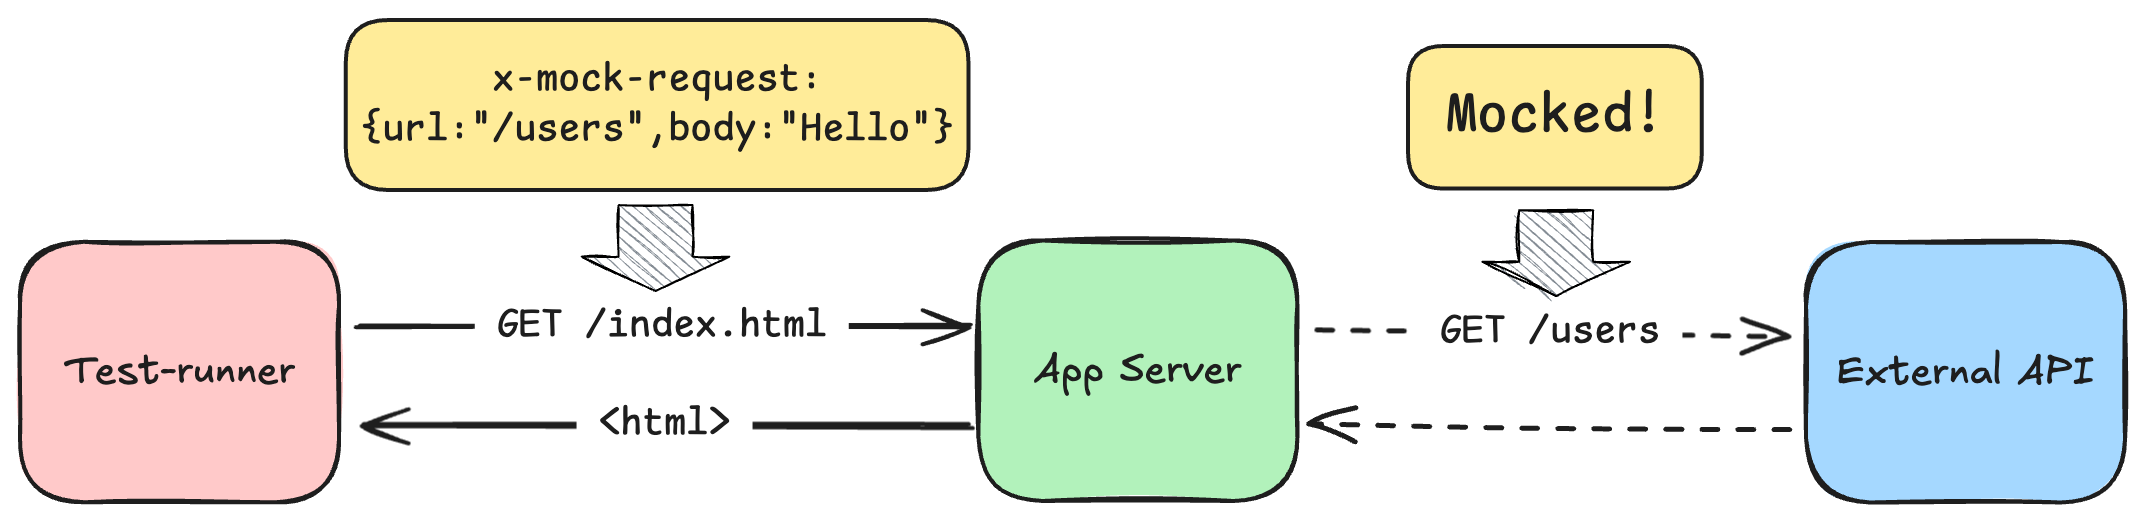
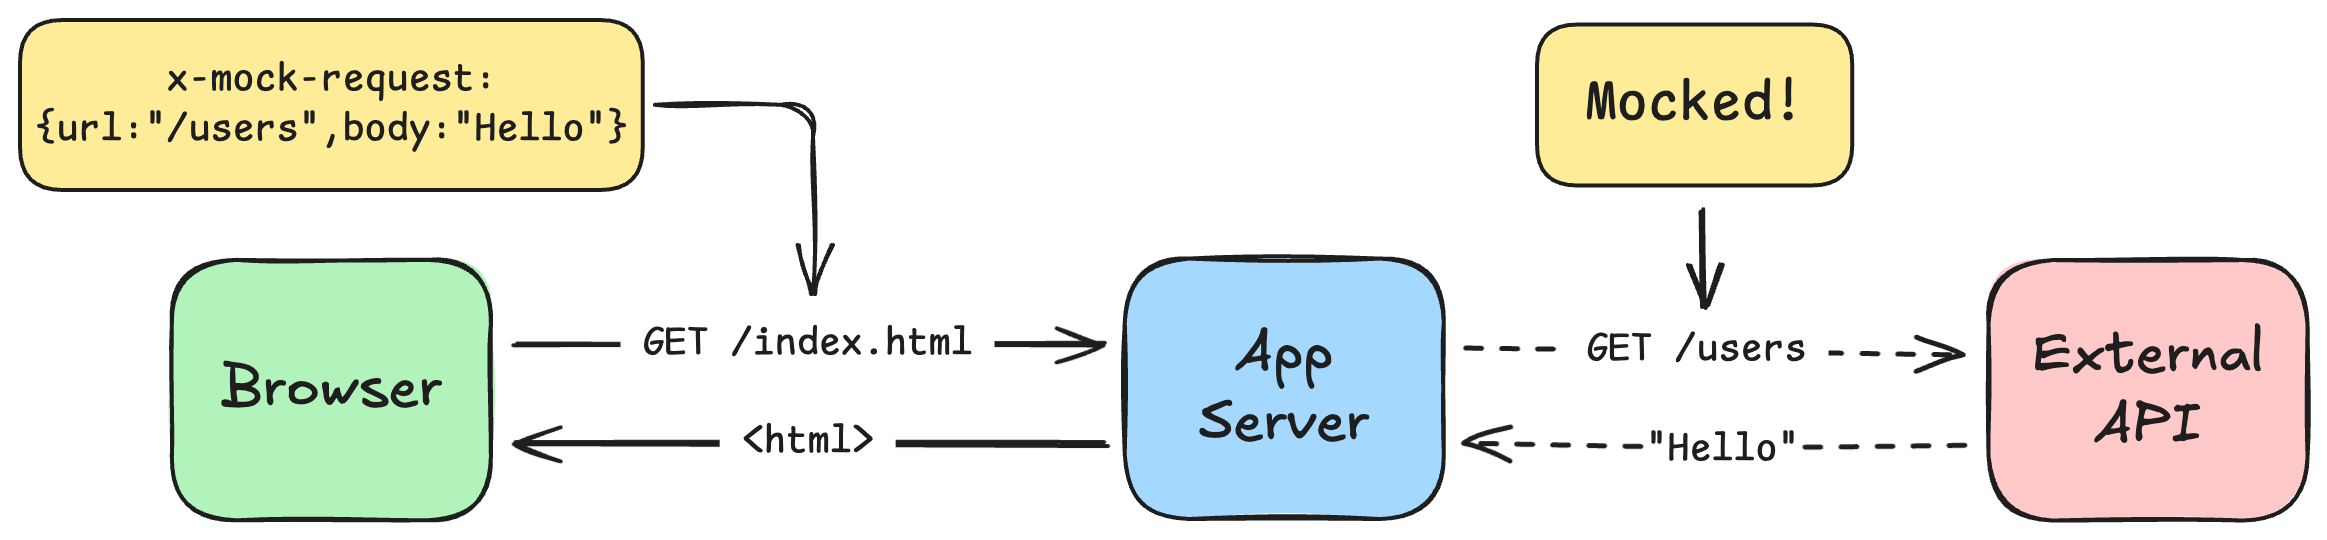
readme

diff --git a/README.md b/README.md
@@ -11,10 +11,10 @@
 
 ![How RMP works](https://raw.githubusercontent.com/vitalets/request-mocking-protocol/refs/heads/main/scripts/img/rmp-schema.png)
 
-1. The test runner defines a request mock as a JSON object.
-2. The mock is sent with the page navigation via a custom HTTP header.
+1. The test runner defines a request mock as a JSON object: `{url: "/users", body: "Hello"}`
+2. The browser sends this mock along with the page navigation as a custom HTTP header `x-mock-request`.
 3. The server reads the header and applies the mock to outgoing API requests.
-4. The page loads with data from the mocked response.
+4. The page renders using data from the mocked response.
 
 Check out the [Concepts](#concepts) and [Limitations](#limitations) for more details.
 
@@ -60,10 +60,10 @@ Check out the [Concepts](#concepts) and [Limitations](#limitations) for more det
 * [**Test runner support**](#test-runner-integration) – Works with **Playwright**, **Cypress**, and custom runners.
 * [**Framework-agnostic**](#framework-integration) – Built-in support for **Next.js** and **Astro**, or integrate with any framework.
 * [**Request matching**](#request-matching) – Match requests by URL, wildcard, query, headers, or body.
+* [**Response mocking**](#response-mocking) – Mock the response with JSON/ string body or HTTP error.
+* [**Parameter Substitution**](#parameter-substitution) – Dynamically inject route/query values into responses.
 * [**Response patching**](#response-patching) – Fetch real API responses and override only what’s needed.
-* [**Dynamic parameters**](#parameter-substitution) – Use `{{ }}` placeholders to inject route/query values into responses.
-* [**Caching**](#caching) – Cache requests on server to make subsequent tests run faster.
-* [**Mocks API**](#api) – Set up mocks easily using a `MockClient` class.
+* [**API**](#api) – Set up mocks easily using a `MockClient` class.
 * [**Debug-friendly**](#debugging) – Add `debug: true` for detailed breakdown of the mocking process.
 
 ## Installation
@@ -228,9 +228,56 @@ RMP offers flexible matching options to ensure your mocks are applied exactly wh
   }, { body: [] });
   ```
 
+## Response Mocking
+
+RMP lets you mock any part of the response. 
+
+- **Static body**: Set response body as string or JSON object.
+  ```ts
+  // string
+  await mockClient.GET('https://example.com/*', {
+    body: 'Hello world'
+  });
+
+  // JSON
+  await mockClient.GET('https://example.com/*', {
+    body: { id: 1, name: 'John Smith' },
+  });
+  ```
+
+- **Custom headers**: Set response headers.
+  ```ts
+  await mockClient.GET('https://example.com/*', {
+    headers: { 'content-type': 'application/json' },
+  });
+  ```
+
+- **Emulate errors**: Set arbitrary HTTP status code.
+  ```ts
+  await mockClient.GET('https://example.com/*', { 
+    status: 500
+  });
+  ```
+
+- **Respond with delay**: Set arbitrary delay in miliseconds.
+  ```ts
+  await mockClient.GET('https://example.com/*', { 
+    delay: 1000
+  });
+  ```
+
+You can combine all options together:
+```ts
+await mockClient.GET('https://example.com/*', {
+  headers: { 'content-type': 'application/json' },
+  body: { id: 1, name: 'John Smith' },
+  delay: 1000,
+});
+```
+
 ## Parameter Substitution
 
-You can define route parameters in the URL pattern and use them in the response:
+You can define route parameters in the URL pattern and use them in the response via `{{ }}` syntax:
 
 ```ts
 await mockClient.GET('https://jsonplaceholder.typicode.com/users/:id', {
@@ -289,39 +336,6 @@ The `bodyPatch` contains object in a form:
 }
 ```
 `path.to.property` uses dot-notation, evaluated with [lodash.set](https://lodash.com/docs/4.17.15#set).
-
-## Caching
-
-You can leverage RMP to cache **server-side** API calls.
-The key question: how to initially fetch API response to put into cache?
-
-The proposed solution is to return response as a hidden HTML element (in non-production environments). Tests can extract the response from the page source, and provide it as a mock during subsequent navigations.
-
-In the app:
-```tsx
-// app/page.tsx
-
-export default async function Page() {
-  const users = await fetchUsers();
-
-  return (
-    <>
-      {/* ...render users */}
-
-      {/* Embed raw response for testing */}
-      {process.env.VERCEL_ENV !== 'production' && (
-        <script id="users-response" type="application/json">
-          {JSON.stringify(users)}
-        </script>
-      )}
-    </>
-  );
-}
-```
-In the test:
-```ts
-// tbd
-```
 
 ## Debugging
 
